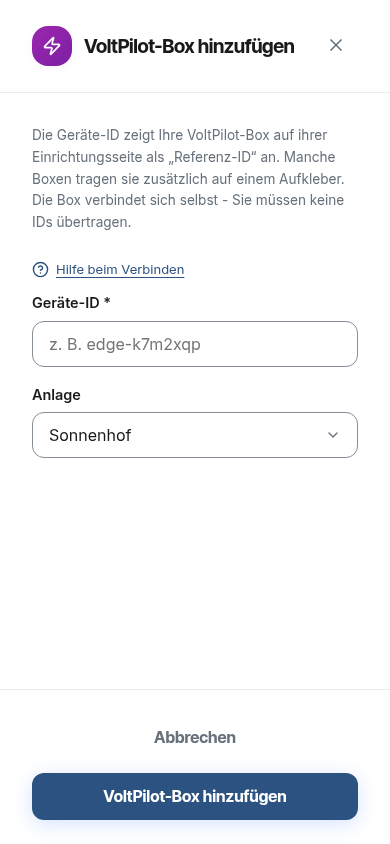
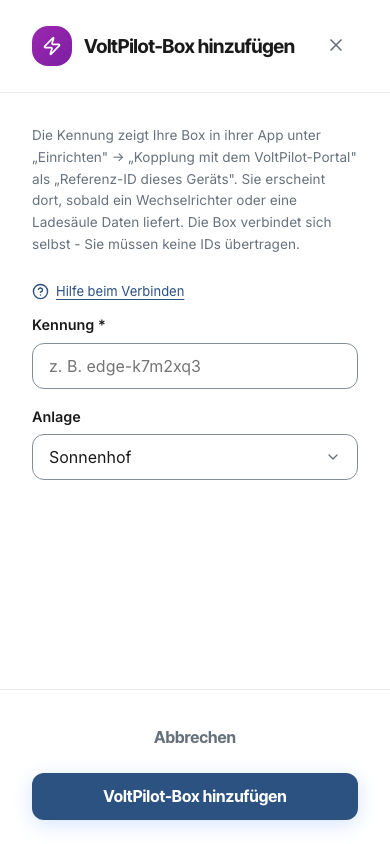
Hilfe „Eine Anlage anlegen“ neu (F13)
Der Artikel beschrieb vier Schritte ohne Standort-Dialog. Jetzt: Adresse · Box · Anlage, was beim
Neuladen und nach einer Anmeldung erhalten bleibt, und woran man das Ende erkennt (Cockpit, Karte
„Ihre Anlage ist live.“, „Wo steht …?“). Der Box-Artikel nennt die Kennung aus der App statt eines
Aufklebers (D5). Bildpunkte auf den heutigen Schritt 1 gesetzt (die Karte steht dort nur ohne
Standort; der Anker `.leaflet-container` fand nichts mehr), Aufnahmen aus den fiktiven Fixtures neu.

diff --git a/frontend/portal/src/help/content/start.ts b/frontend/portal/src/help/content/start.ts
@@ -72,22 +72,24 @@ export const startArticles: HelpArticle[] = [
   },
   {
     id: 'anlage-anlegen', category: 'start', title: 'Eine Anlage anlegen',
-    summary: 'Standort, Registerdaten, Gerät und Betrieb Schritt für Schritt einrichten.',
-    keywords: ['Standort', 'Einrichten', 'Onboarding', 'MaStR', 'Register', 'Adresse', 'PV', 'Speicher'],
+    summary: 'Adresse, Box und Anlage in drei Schritten - danach geht es ins Cockpit.',
+    keywords: ['Standort', 'Adresse', 'Einrichten', 'Onboarding', 'Kennung', 'Box', 'MaStR', 'Register', 'PV', 'Speicher', 'Entwurf'],
     sections: [
-      { id: 'starten', title: 'Mit dem richtigen Standort beginnen', paragraphs: [
-        "Beim ersten Besuch startet die Einrichtung; weitere Standorte legen Sie über Anlage hinzufügen an. Wählen Sie einen eindeutigen Namen und den richtigen Standort für Wetter und PV-Prognose.",
+      { id: 'starten', title: 'Mit der Adresse beginnen', paragraphs: [
+        "Die Einrichtung beginnt mit der Adresse: ein Feld mit Vorschlägen, Straße und Hausnummer genügen. Daraus folgen Standort, Kartenpunkt und Zeitzone - und damit Wetter und Sonnenprognose. Für eine weitere Anlage wählen Sie „Am selben Ort wie …“ oder „An einer anderen Adresse“; an einer anderen Adresse entsteht der Standort gleich mit.",
       ], figure: 'anlage-anlegen' },
-      { id: 'schritte', title: 'Die Einrichtung durchlaufen', paragraphs: [
-        "Der Assistent zeigt den offenen Schritt. Übersprungene Angaben können später für einzelne Funktionen nötig sein.",
+      { id: 'schritte', title: 'Die drei Schritte', paragraphs: [
+        "Die Leiste oben zeigt immer dieselben drei Schritte. Was Sie überspringen, ergänzen Sie später unter Anlage › Aufbau oder Einstellungen.",
       ], steps: [
-        'Anlage: Namen und Standort erfassen und die Anlage anlegen.',
-        'Register: PV- und Speicherdaten über die passende MaStR-Nummer suchen. Die Vorschau prüfen, bevor Sie Werte übernehmen. Falls nötig, den angebotenen manuellen Weg verwenden.',
-        'Gerät: die richtige VoltPilot-Geräte-ID mit dieser Anlage verbinden.',
-        'Betrieb: den passenden Einsatzzweck und die angebotenen Betriebsmodelle prüfen. Fehlende Voraussetzungen werden direkt angezeigt.',
+        'Adresse: die Adresse wählen, den Pin bei Bedarf aufs Dach ziehen und den Namen prüfen.',
+        'Box: die Kennung Ihrer VoltPilot-Box eintragen. Das Feld ergänzt „edge-“ und prüft jedes Zeichen. Ist die Box noch nicht da, verbinden Sie sie später im Aufbau.',
+        'Anlage: bestätigen, was die Box gefunden hat, und die Leistung der Solarmodule ergänzen. Ohne Box tragen Sie Solar und Speicher als Zahlen ein. Mit der MaStR-Nummer holen Sie die Werte aus dem Register.',
+      ], note: 'Was die Box meldet, ist noch nicht übernommen - erst „Stimmt so“ übernimmt es. Ob ein Gerät danach misst, zeigt das Cockpit an seinen Werten.' },
+      { id: 'unterbrechen', title: 'Wenn etwas dazwischenkommt', paragraphs: [
+        "Ihre Eingaben bleiben in diesem Browser-Tab erhalten: nach dem Neuladen oder einer neuen Anmeldung geht es am selben Schritt weiter. Eine verlorene Antwort legt nichts doppelt an. „Später einrichten“ oder das Schließen des Dialogs verwirft den Entwurf; was schon gespeichert ist, bleibt.",
       ] },
       { id: 'pruefen', title: 'Woran Sie den erfolgreichen Abschluss erkennen', paragraphs: [
-        "Prüfen Sie unter Anlage Geräte, Kapazität, Leistungsgrenzen und Tarif. Nach dem Verbinden müssen erste Messwerte eintreffen. Eine angelegte Anlage allein bestätigt weder Datenverbindung noch Steuerfreigabe.",
+        "Nach dem letzten Schritt öffnet das Cockpit Ihrer Anlage. Sobald die ersten Werte da sind, erscheint einmal die Karte „Ihre Anlage ist live.“ mit einem nächsten Schritt. Solange noch etwas fehlt, zeigt das Cockpit „Ihr Weg zum fertigen EMS“; hat ein Standort noch keine Adresse, fragt die Karte „Wo steht …?“ danach. Eine angelegte Anlage allein bestätigt weder Datenverbindung noch Steuerfreigabe.",
       ] },
     ],
     related: ['box-verbinden', 'einstellungen', 'betriebsmodelle'],
@@ -95,19 +97,19 @@ export const startArticles: HelpArticle[] = [
   {
     id: 'box-verbinden', category: 'start', title: 'Die Box verbinden und erste Daten prüfen',
     summary: 'Die Geräte-ID zuordnen und erkennen, ob Messwerte wirklich ankommen.',
-    keywords: ['Geräte-ID', 'edge', 'VP', 'Aufkleber', 'Claim', 'Verbinden', 'Erste Daten', 'Unbekannt'],
+    keywords: ['Kennung', 'Geräte-ID', 'edge', 'VP', 'Aufkleber', 'Claim', 'Verbinden', 'Erste Daten', 'Unbekannt'],
     prerequisite: 'Eine eingerichtete VoltPilot Box und eine Anlage im Portal.',
     sections: [
       { id: 'vorbereiten', title: 'Die richtige Geräte-ID verwenden', paragraphs: [
-        "Die VoltPilot-Geräte-ID steht auf dem Aufkleber oder in der lokalen Web-App der Box. Verwenden Sie diese ID, nicht die Seriennummer des Wechselrichters. Schließen Sie zuerst die lokale Einrichtung ab.",
+        "Die Kennung zeigt Ihre Box in ihrer App unter „Einrichten“ (Referenz-ID dieses Geräts), sobald ein Wechselrichter oder eine Ladesäule Daten liefert. Verwenden Sie diese Kennung, nicht die Seriennummer des Wechselrichters. Schließen Sie zuerst die lokale Einrichtung ab.",
       ], figure: 'box-verbinden' },
       { id: 'verbinden', title: 'Verbinden und den Eingang kontrollieren', paragraphs: [], steps: [
         'Im Aufbau der Anlage „VoltPilot-Box hinzufügen“ wählen (beim Anlegen einer Anlage fragt der Assistent danach) und die gewünschte Anlage prüfen.',
-        'Die Geräte-ID vollständig übertragen und verbinden. Beachten Sie die Hinweise direkt am Eingabefeld.',
+        'Die Kennung vollständig übertragen und verbinden. Das Feld ergänzt „edge-“ und prüft jedes Zeichen; beachten Sie die Hinweise direkt am Eingabefeld.',
         'Auf die Rückmeldung warten. Anschließend Geräteverbindung, Zeitpunkt des letzten Kontakts und erste Messwerte prüfen.',
       ], figure: 'box-verbinden-mobil', note: 'Eine bestätigte Zuordnung und eine aktive Datenverbindung sind zwei verschiedene Schritte. „Wartet auf Daten“ ist noch kein gemessener Betriebszustand.' },
       { id: 'fehler', title: 'Wenn die ID nicht angenommen wird', paragraphs: [
-        "Bei unbekannter ID vergleichen Sie alle Zeichen mit dem Original. Prüfen Sie bei einer bereits verbundenen Box den angezeigten Standort. Gehört sie zu einem anderen Konto, hilft VoltPilot. Verändern Sie die ID nicht, um die Meldung zu umgehen.",
+        "Bei unbekannter Kennung vergleichen Sie alle Zeichen mit der App Ihrer Box. Prüfen Sie bei einer bereits verbundenen Box den angezeigten Standort. Gehört sie zu einem anderen Konto, hilft VoltPilot. Verändern Sie die ID nicht, um die Meldung zu umgehen.",
       ] },
     ],
     related: ['geraete', 'probleme', 'kontakt'],
